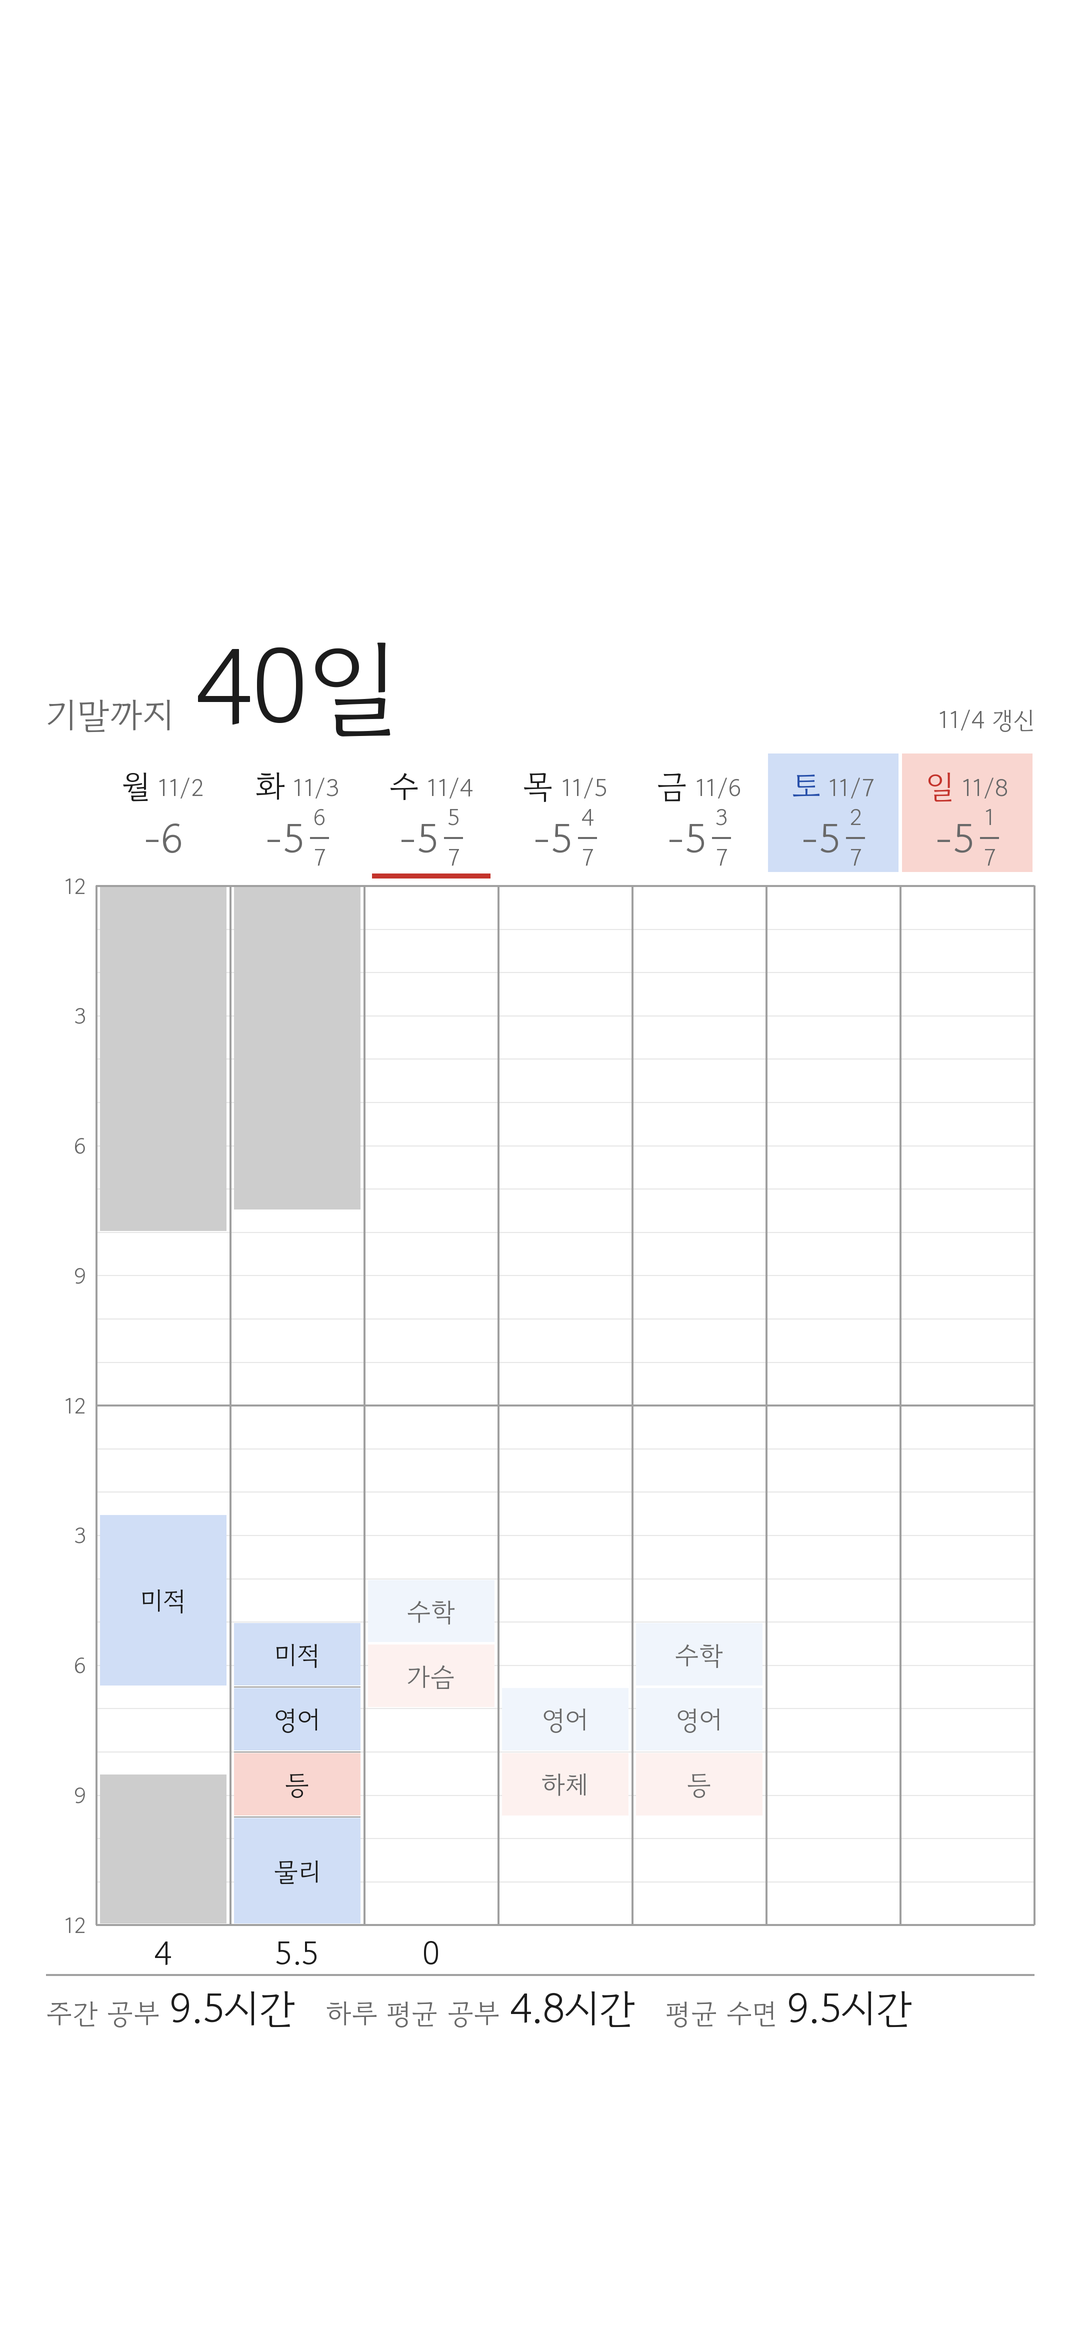
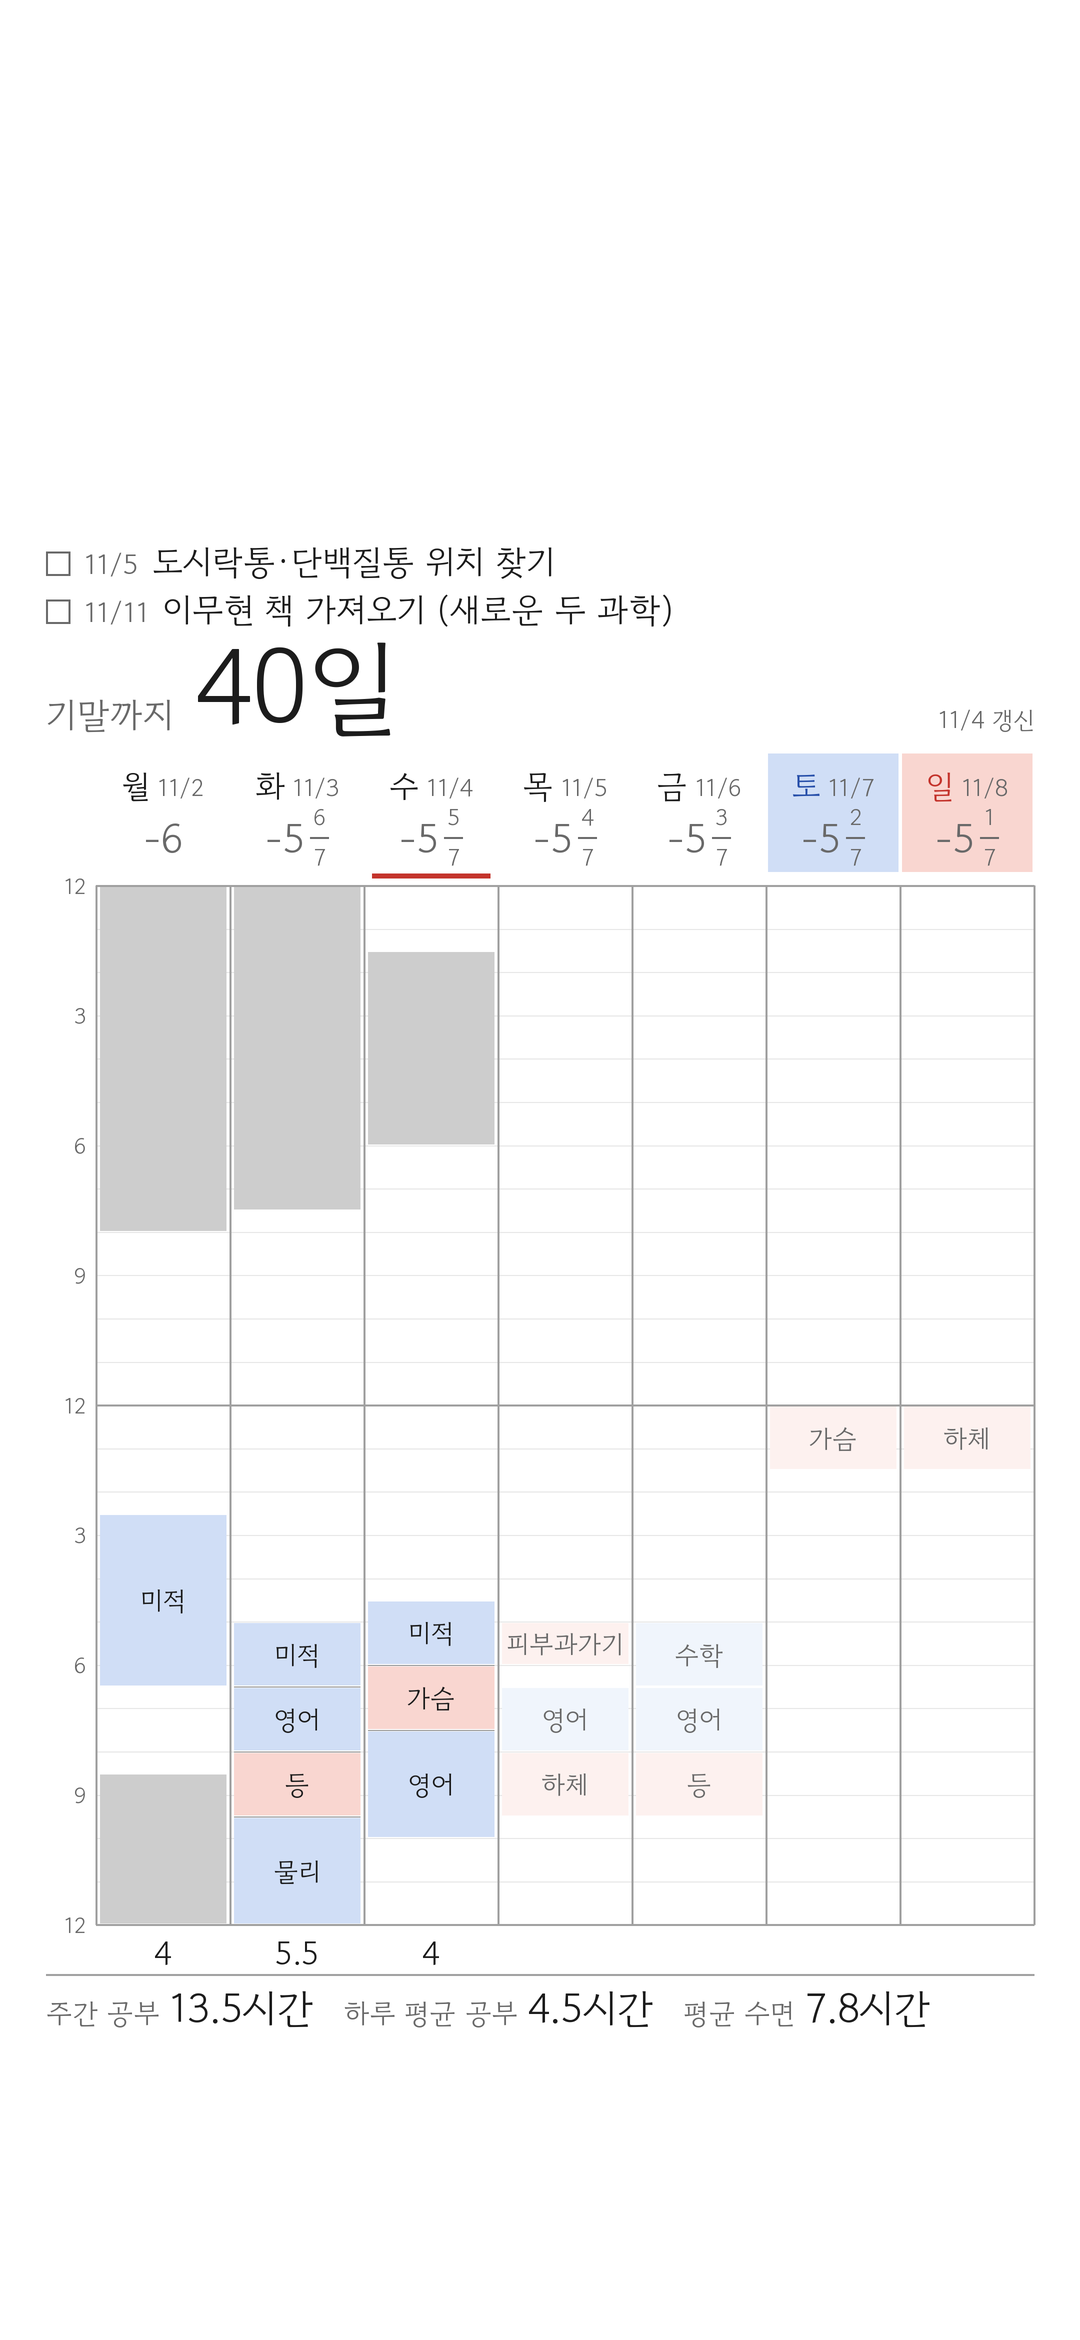
Show dateless to-dos above the header
Claude-Session: https://claude.ai/code/session_016sgH3W1t4jFFoNxyrfYock

diff --git a/make.py b/make.py
@@ -107,6 +107,31 @@ def footer(g, stats, L, R, y, u):
         x += text_w(g, value, fb) + 30 * u
 
 
+def todo_list(g, data, today, L, R, y, u):
+    """시계와 머리말 사이 빈 자리에 해야 할 일(날짜 있는 것은 지난 뒤 사라짐)을 적는다."""
+    items = [t for t in data.get("todos", []) if not t["d"] or t["d"] >= today.isoformat()]
+    if not items:
+        return
+    more, items = len(items) - 2, items[:2]
+    fd, gap, box = font(SANS, int(28 * u)), 48 * u, 24 * u
+    first = y - 8 * u - gap * (len(items) - 1)
+    for i, t in enumerate(items):
+        b = first + gap * i
+        g.rectangle((L, b - box, L + box, b), outline=INK_SOFT, width=max(2, int(2 * u)))
+        x = L + box + 14 * u
+        if t["d"]:
+            d = datetime.date.fromisoformat(t["d"])
+            ds = f"{d.month}/{d.day}"
+            g.text((x, b), ds, font=fd, fill=INK_SOFT, anchor="ls")
+            x += text_w(g, ds, fd) + 14 * u
+        size = 34
+        while size > 20 and x + text_w(g, t["t"], font(SANS, int(size * u))) > R - 60 * u:
+            size -= 2
+        g.text((x, b), t["t"], font=font(SANS, int(size * u)), fill=INK, anchor="ls")
+    if more > 0:
+        g.text((R, b), f"+{more}", font=fd, fill=INK_SOFT, anchor="rs")
+
+
 def draw(data, today, W, H, out):
     u = W / 1080
     im = Image.new("RGB", (W * SS, H * SS), PAPER)
@@ -121,6 +146,7 @@ def draw(data, today, W, H, out):
     grid_l = L + axis
     col = (R - grid_l) / 7
     y = header(g, data, today, W, L, R, H * TOP_EMPTY, u)
+    todo_list(g, data, today, L, R, H * TOP_EMPTY, u)
 
     monday = today - datetime.timedelta(days=today.weekday())
     dates = [monday + datetime.timedelta(days=i) for i in range(7)]

diff --git a/sync.py b/sync.py
@@ -74,7 +74,7 @@ def main(folder):
     weekly = [{"dow": t["day"], "s": t["start"], "e": t["end"], "t": SHORT.get(t["title"], t["title"]),
                "k": "study" if t.get("kind") in STUDY else "other"}
               for t in table if t.get("kind") not in ("학교", "운동")]
-    plan, notes = [], {}
+    plan, notes, todos = [], {}, []
 
     # 운동 시간에는 3분할 순서대로 다음에 할 부위를 적는다.
     last = None
@@ -96,7 +96,7 @@ def main(folder):
         if t.get("start") and t.get("end"):
             plan.append({"d": t["date"], "s": t["start"], "e": t["end"], "k": "other", "t": t.get("short") or t["title"]})
         else:
-            notes.setdefault(t["date"], []).append(t.get("short") or t["title"])
+            todos.append({"d": t.get("date") or "", "t": t.get("short") or t["title"]})
     # 기록장에서 "할 일로 칠하기"로 칠한 연한 칸
     for date in week & set(every):
         for s, e, t, k in every[date].get("spans") or []:
@@ -106,7 +106,8 @@ def main(folder):
         notes.setdefault(e["date"], []).append(SHORT.get(e["subject"], e["subject"]) + " 시험")
 
     data = {"exam": {"name": wall.get("name", "시험"), "date": upcoming[0]["date"]} if upcoming else None,
-            "days": days, "weekly": weekly, "plan": plan, "notes": notes}
+            "days": days, "weekly": weekly, "plan": plan, "notes": notes,
+            "todos": sorted(todos, key=lambda x: x["d"] or "9999")}
     with open(os.path.join(os.path.dirname(os.path.abspath(__file__)), "data.json"), "w", encoding="utf-8") as f:
         json.dump(data, f, ensure_ascii=False, indent=1, sort_keys=True)
 
